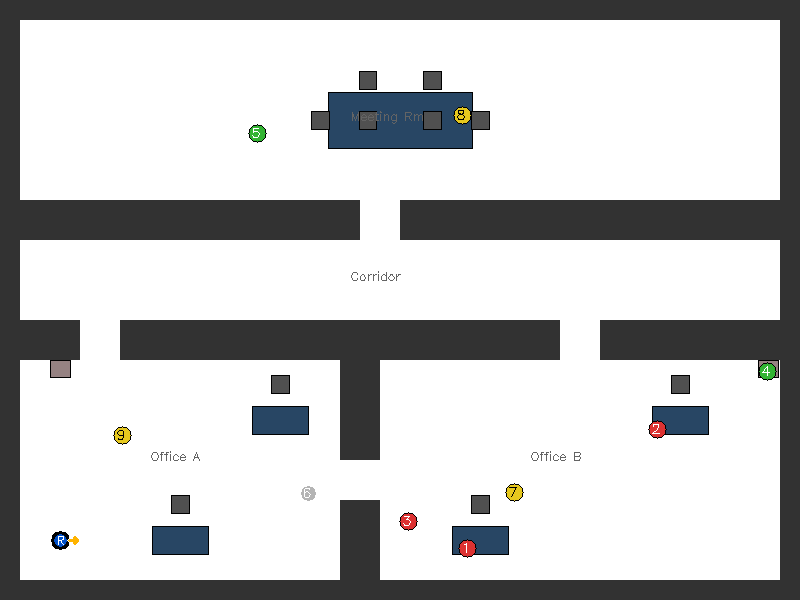
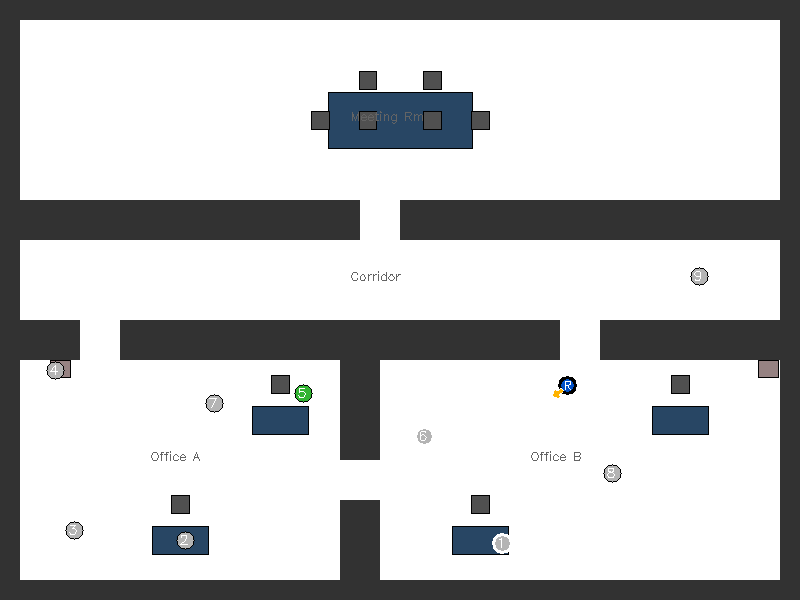
debugging env variations

diff --git a/src/scenario_runner/flicker_controller.py b/src/scenario_runner/flicker_controller.py
@@ -1,7 +1,8 @@
 """Flickering light controller — Step 3.14.
 
 Toggles named gz-sim lights between ON and OFF states on a configurable period.
-Uses ``gz topic`` CLI (no gz-transport Python bindings required).
+Calls the ``/world/<name>/light_config`` **service** directly via gz.transport13
+(UserCommands system exposes this as a service, not a pub/sub topic).
 
 Configured via scenario YAML::
 
@@ -17,12 +18,18 @@ process exits without calling stop().
 from __future__ import annotations
 
 import subprocess
+import sys
 import threading
 import time
 import logging
 from typing import Any
 
 log = logging.getLogger(__name__)
+
+# gz.transport13 lives in the system Python path, not in the project venv.
+_SYS_PKG = "/usr/lib/python3/dist-packages"
+if _SYS_PKG not in sys.path:
+    sys.path.insert(0, _SYS_PKG)
 
 
 class FlickerController:
@@ -32,7 +39,7 @@ class FlickerController:
     ----------
     world_name:
         Gazebo world name (e.g. ``"indoor_office"``).  Used to build the
-        ``/world/<name>/light_config`` topic path.
+        ``/world/<name>/light_config`` service path.
     flicker_specs:
         List of dicts, one per light.  Required key: ``name``.
         Optional: ``period_s`` (default 1.0), ``on_diffuse`` (RGBA list,
@@ -49,10 +56,33 @@ class FlickerController:
         flicker_specs: list[dict[str, Any]],
         lighting_preset: dict | None = None,
     ) -> None:
-        self._topic = f"/world/{world_name}/light_config"
+        self._service = f"/world/{world_name}/light_config"
         self._specs = self._resolve_specs(flicker_specs, lighting_preset or {})
         self._stop_event = threading.Event()
         self._thread: threading.Thread | None = None
+
+        # Try to set up gz.transport13 service caller.
+        # /world/<world>/light_config is a SERVICE (not a pub/sub topic) exposed
+        # by the UserCommands system plugin in Gazebo Harmonic.
+        # We call it via Node.request() with a Light request and Boolean response.
+        self._gz_node = None
+        self._Light = None
+        self._Boolean = None
+        try:
+            from gz.transport13 import Node as _GzNode  # type: ignore[import]
+            from gz.msgs10.light_pb2 import Light as _Light  # type: ignore[import]
+            from gz.msgs10.boolean_pb2 import Boolean as _Boolean  # type: ignore[import]
+
+            self._gz_node = _GzNode()
+            self._Light = _Light
+            self._Boolean = _Boolean
+            log.debug("FlickerController: gz.transport13 ready, service=%s", self._service)
+        except Exception as exc:
+            log.warning(
+                "FlickerController: gz.transport13 unavailable; "
+                "falling back to gz-service CLI: %s",
+                exc,
+            )
 
     # ── Public API ──────────────────────────────────────────────────────────────
 
@@ -74,16 +104,20 @@ class FlickerController:
             self._thread.join(timeout=3.0)
         # Restore all lights to ON
         for spec in self._specs:
-            self._publish(spec["name"], spec["on_diffuse"])
+            self._call_service(spec["name"], spec["on_diffuse"])
 
     # ── Internal ────────────────────────────────────────────────────────────────
 
     def _run(self) -> None:
+        # Brief startup delay: give Gazebo time to fully register the
+        # light_config service before we start calling it.
+        self._stop_event.wait(timeout=3.0)
+
         while not self._stop_event.is_set():
             for spec in self._specs:
                 if self._stop_event.is_set():
                     break
-                self._publish(spec["name"], spec["off_diffuse"])
+                self._call_service(spec["name"], spec["off_diffuse"])
 
             half = min(s["period_s"] for s in self._specs) / 2.0
             self._stop_event.wait(timeout=half)
@@ -91,26 +125,57 @@ class FlickerController:
             for spec in self._specs:
                 if self._stop_event.is_set():
                     break
-                self._publish(spec["name"], spec["on_diffuse"])
+                self._call_service(spec["name"], spec["on_diffuse"])
 
             self._stop_event.wait(timeout=half)
 
-    def _publish(self, name: str, diffuse: list[float]) -> None:
-        """Publish one Light message via ``gz topic`` CLI."""
+    def _call_service(self, name: str, diffuse: list[float]) -> None:
+        """Call the light_config service — gz.transport13 preferred, CLI fallback."""
         r, g, b, a = diffuse
-        msg = (
+
+        # ── Fast path: gz.transport13 service call ────────────────────────────
+        if self._gz_node is not None and self._Light is not None and self._Boolean is not None:
+            try:
+                req = self._Light()
+                req.name = name
+                req.diffuse.r = float(r)
+                req.diffuse.g = float(g)
+                req.diffuse.b = float(b)
+                req.diffuse.a = float(a)
+                req.specular.r = float(r * 0.3)
+                req.specular.g = float(g * 0.3)
+                req.specular.b = float(b * 0.3)
+                req.specular.a = 1.0
+                # Async service call (timeout=1000ms); result ignored —
+                # fire-and-forget is sufficient for visual flickering.
+                self._gz_node.request(
+                    self._service, req, self._Light, self._Boolean, 1000
+                )
+                return
+            except Exception as exc:
+                log.debug("FlickerController gz.transport service error: %s", exc)
+
+        # ── Slow fallback: gz service CLI ─────────────────────────────────────
+        req_str = (
             f'name: "{name}" '
             f'diffuse {{r: {r} g: {g} b: {b} a: {a}}} '
             f'specular {{r: {r * 0.3:.3f} g: {g * 0.3:.3f} b: {b * 0.3:.3f} a: 1.0}}'
         )
         try:
             subprocess.run(
-                ["gz", "topic", "-t", self._topic, "-m", "gz.msgs.Light", "-p", msg],
-                timeout=1.0,
+                [
+                    "gz", "service",
+                    "-s", self._service,
+                    "--reqtype", "gz.msgs.Light",
+                    "--reptype", "gz.msgs.Boolean",
+                    "--timeout", "1000",
+                    "--req", req_str,
+                ],
+                timeout=2.0,
                 capture_output=True,
             )
         except Exception as exc:
-            log.debug("FlickerController publish error: %s", exc)
+            log.debug("FlickerController CLI service error: %s", exc)
 
     @staticmethod
     def _resolve_specs(

diff --git a/src/scenario_runner/launcher.py b/src/scenario_runner/launcher.py
@@ -17,6 +17,7 @@ from __future__ import annotations
 import os
 import signal
 import subprocess
+import threading
 import time
 from pathlib import Path
 
@@ -36,6 +37,9 @@ class SimulationLauncher:
     def __init__(self, headless: bool = True) -> None:
         self._headless = headless
         self._processes: list[subprocess.Popen] = []
+        # Daemon threads for patrol-bot controllers (no explicit stop needed —
+        # they die when the process exits, or when shutdown() is called).
+        self._patrol_threads: list[threading.Thread] = []
 
     def launch(
         self,
@@ -128,37 +132,34 @@ class SimulationLauncher:
         self._processes.append(proc)
         return proc
 
-    def _launch_patrol_controller(self, obs: dict) -> subprocess.Popen:
-        """Start patrol_bot_controller.py for a dynamic obstacle entry.
+    def _launch_patrol_controller(self, obs: dict) -> threading.Thread | None:
+        """Start a patrol-bot controller as a daemon thread.
 
-        The controller is a standalone Python script that uses gz-transport
-        directly (no ROS 2 bridge).  It runs in its own process group so
-        ``shutdown()`` can kill it along with the other child processes.
+        Runs ``patrol_bot_controller.run()`` in-process (no subprocess) so
+        gz-transport discovery happens in the same network context as Gazebo.
+        The thread is a daemon so it is automatically reaped when the process
+        exits; ``shutdown()`` doesn't need to kill it explicitly.
         """
-        import json
         name = obs.get("name", obs.get("model", "patrol_bot") + "_0")
         waypoints = obs.get("patrol", [])
         if not waypoints:
-            return  # no patrol configured — model is static in the world
+            return None  # no patrol configured — model is static
+
         speed = float(obs.get("speed", 0.4))
         turn_speed = float(obs.get("turn_speed", 0.6))
-        controller = _REPO_ROOT / "src" / "scenario_runner" / "patrol_bot_controller.py"
-        cmd = [
-            "python3.12",
-            str(controller),
-            "--name", name,
-            "--waypoints", json.dumps(waypoints),
-            "--speed", str(speed),
-            "--turn_speed", str(turn_speed),
-        ]
-        proc = subprocess.Popen(
-            cmd,
-            stdout=subprocess.PIPE,
-            stderr=subprocess.STDOUT,
-            start_new_session=True,
+
+        # Import here so the module's path-setup runs in the correct context.
+        from scenario_runner.patrol_bot_controller import run as _patrol_run  # noqa: PLC0415
+
+        t = threading.Thread(
+            target=_patrol_run,
+            args=(name, waypoints, speed, turn_speed),
+            daemon=True,
+            name=f"patrol_{name}",
         )
-        self._processes.append(proc)
-        return proc
+        t.start()
+        self._patrol_threads.append(t)
+        return t
 
     # ── Private: readiness checks ──────────────────────────────────────────────
 

diff --git a/src/scenario_runner/patrol_bot_controller.py b/src/scenario_runner/patrol_bot_controller.py
@@ -1,11 +1,12 @@
 """Patrol bot waypoint controller — Step 3.14.
 
-Standalone script: drives a patrol_bot model through a closed waypoint loop
-using gz-transport (no ROS 2 bridge required).
+Drives a patrol_bot model through a closed waypoint loop using gz-transport
+(no ROS 2 bridge required).
 
-Run by SimulationLauncher as a subprocess:
+SimulationLauncher calls ``run()`` in a daemon thread.
+Can also be run standalone as a script:
 
-    python3.12 patrol_bot_controller.py \\
+    python3 patrol_bot_controller.py \\
         --name patrol_bot_0 \\
         --waypoints "[[5,8],[15,8],[15,3],[5,3]]" \\
         --speed 0.4 \\
@@ -24,12 +25,6 @@ import math
 import sys
 import time
 
-# gz.transport13 lives in the system Python path, not in the project venv.
-sys.path.insert(0, "/usr/lib/python3/dist-packages")
-
-from gz.transport13 import Node  # type: ignore[import]
-from gz.msgs10.twist_pb2 import Twist  # type: ignore[import]
-
 
 def _clamp_angle(a: float) -> float:
     """Normalise *a* to (-π, π]."""
@@ -41,6 +36,16 @@ def _clamp_angle(a: float) -> float:
 
 
 def run(name: str, waypoints: list[list[float]], speed: float, turn_speed: float) -> None:
+    # gz.transport13 lives in the system Python path, not in the project venv.
+    # Import here (not at module level) so this file is safely importable as a
+    # module for the daemon-thread path in SimulationLauncher.
+    _SYS_PKG = "/usr/lib/python3/dist-packages"
+    if _SYS_PKG not in sys.path:
+        sys.path.insert(0, _SYS_PKG)
+
+    from gz.transport13 import Node  # type: ignore[import]
+    from gz.msgs10.twist_pb2 import Twist  # type: ignore[import]
+
     node = Node()
     topic = f"/model/{name}/cmd_vel"
     pub = node.advertise(topic, Twist)

diff --git a/src/world_manager/world_generator.py b/src/world_manager/world_generator.py
@@ -451,12 +451,6 @@ class WorldGenerator:
                     f'<color_start>0.8 0.8 0.8 0.3</color_start>'
                     f'<color_end>0.6 0.6 0.6 0.0</color_end>'
                     f'<scale_rate>0.5</scale_rate>'
-                    f'<material>'
-                    f'<script>'
-                    f'<name>ParticleEmitterPoint</name>'
-                    f'<uri>file://media/materials/scripts/gazebo.material</uri>'
-                    f'</script>'
-                    f'</material>'
                     f'</particle_emitter>'
                     f'</link>'
                     f'</model>'
@@ -480,7 +474,10 @@ class WorldGenerator:
             model.set("name", name)
 
             pose = ET.Element("pose")
-            pose.text = f"{x:.4f} {y:.4f} 0.10 0 0 {yaw:.4f}"
+            # Use the z from the scenario spawn field — the caller must specify
+            # the correct ground-contact height for each model.
+            # For patrol_bot: wheels at z=-0.04, radius=0.10 → spawn z = 0.14.
+            pose.text = f"{x:.4f} {y:.4f} {z:.4f} 0 0 {yaw:.4f}"
             model.insert(0, pose)
 
             world_elem.append(model)

diff --git a/docs/AGENT_HANDOFF.md b/docs/AGENT_HANDOFF.md
@@ -45,6 +45,10 @@ Navigation → invoke the `/arst-nav` skill. It has all documentation.
 - **Ceiling**: static flat model at z=3.0 m added to `world.sdf`. `_apply_lighting` sets `ceiling_color` + scene `background` from each lighting preset. dim_localized (hard/brutal): near-black ceiling [0.03,0.03,0.03], background [0.02,0.02,0.02]. Rooms now have visible contrast: office_a moderate warm, office_b very dim blue, corridor bright red emergency, meeting_room bright neutral.
 - **IMU system plugin**: IMU is a physics-based sensor — it needs `gz-sim-imu-system` in `world.sdf` in addition to `gz-sim-sensors-system` (which handles GPU-rendered sensors like LiDAR). Missing it → IMU sensor initialises but never publishes.
 - **IMU QoS**: `ros_gz_bridge` bridges IMU as **BEST_EFFORT**. Subscribers must use `ReliabilityPolicy.BEST_EFFORT` or they receive no messages.
+- **Camera FOV / body in frame**: DerpBot camera is at z=0.20 from `base_link` (body top = 0.10). With horizontal_fov=90° and 640×480, the bottom FOV edge is −36.87°. At z=0.20 the bottom-centre ray exits the body x-extent (±0.15 m) at x=0.183 m. Do NOT lower the camera below z=0.18 or the robot body re-enters frame. Prior value was 0.15 → caused lower 25% of image to show blue chassis.
+- **Patrol bot controller**: Runs as a **daemon thread** inside the launcher process (not a subprocess). `patrol_bot_controller.run()` imports gz.transport13 lazily inside the function (not at module level) so the module is safely importable. The thread uses the same network context as the Gazebo process — no discovery delay.
+- **Patrol bot DiffDrive topic**: Do NOT set `<topic>cmd_vel</topic>` in the DiffDrive plugin SDF. That resolves to the global `/cmd_vel`, not `/model/<name>/cmd_vel`. Without a `<topic>` element, DiffDrive defaults to `/model/<model_name>/cmd_vel`, which matches what `patrol_bot_controller.py` publishes to. This was the root cause of patrol bot never moving.
+- **FlickerController**: `/world/<world>/light_config` is a **SERVICE** (not a pub/sub topic) provided by the UserCommands system. Using `advertise()`+`publish()` sends to a topic nobody subscribes to. Use `node.request(service, req, Light, Boolean, timeout_ms)` to call the service. Falls back to `gz service` CLI if transport init fails. 3-second startup delay in the flicker thread avoids calling the service before Gazebo registers it.
 
 ---
 

diff --git a/readme.md b/readme.md
@@ -106,12 +106,14 @@ Navigate the four rooms and locate all objects as quickly as possible.  When the
 python3.12 -m pytest tests/
 ```
 
-- collisions don't seem to count correctly? Hitting door 3 times, only one detected.
 
 To fix: 
-- lower 30% of camera view is blue. Seeing the frame of the robot itself? 
-- robot not moving
-- no flickering lights
-
-To check:
-- robot drifts in map
+- collisions don't seem to count correctly? Hitting door 3 times, only one detected.
+- in brutal.yaml:
+  - robot moves, but moves to office A and then gets stuck. Let it patrol the corridor back and forth instead. 
+  - no flickering lights
+- in perception_stress.yaml:
+  - robot not moving 
+  - smoke are moving black squares
+  - The furniture in the large office is completely black
+  
